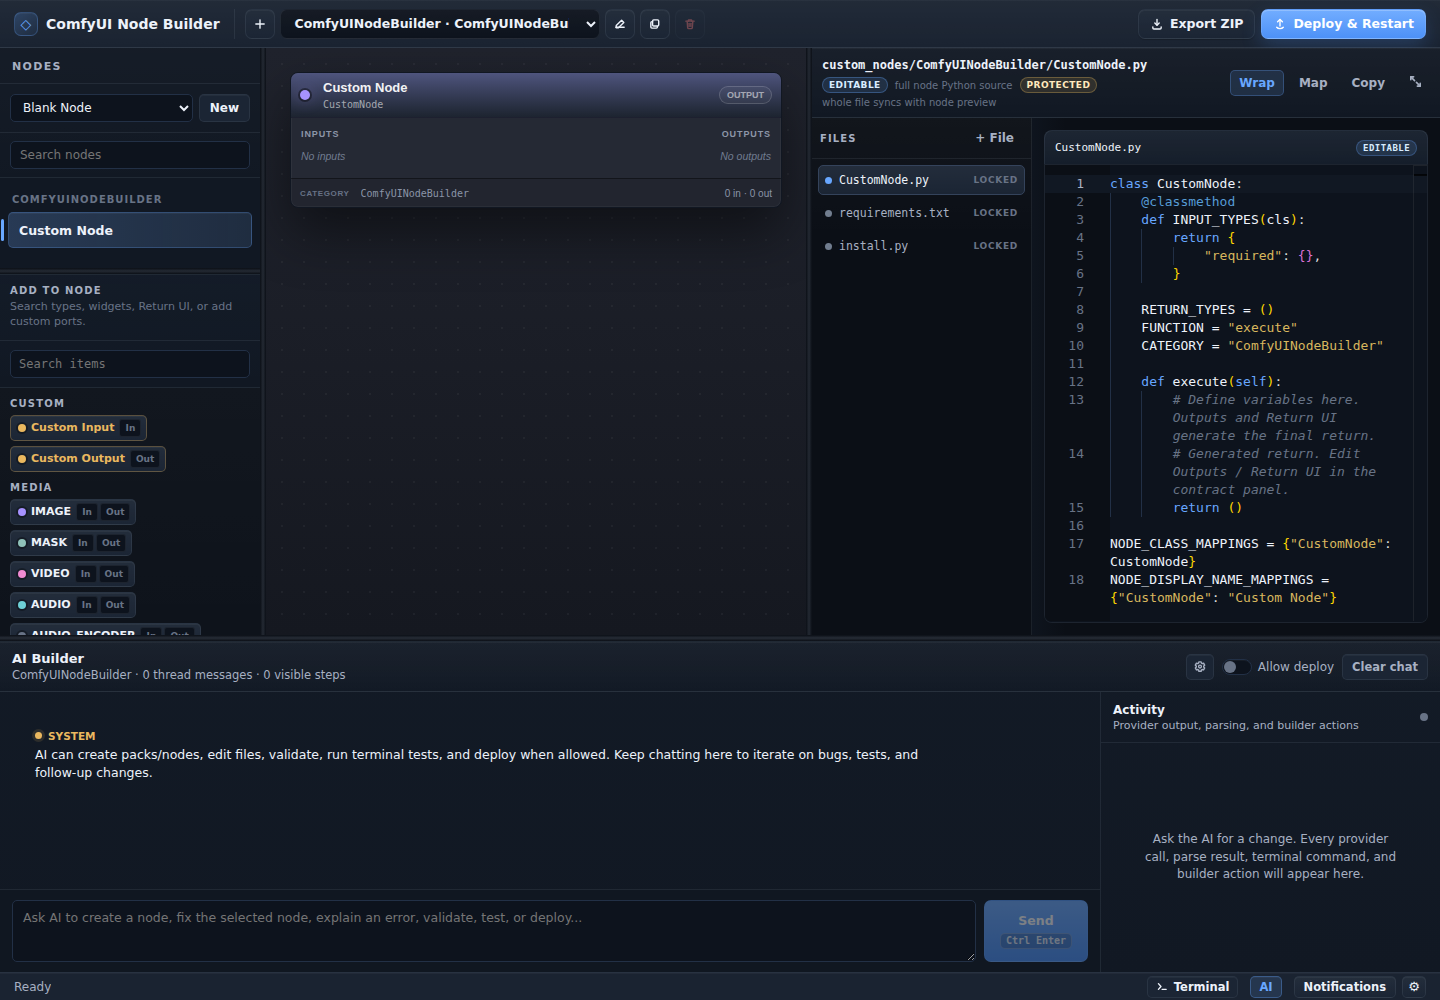
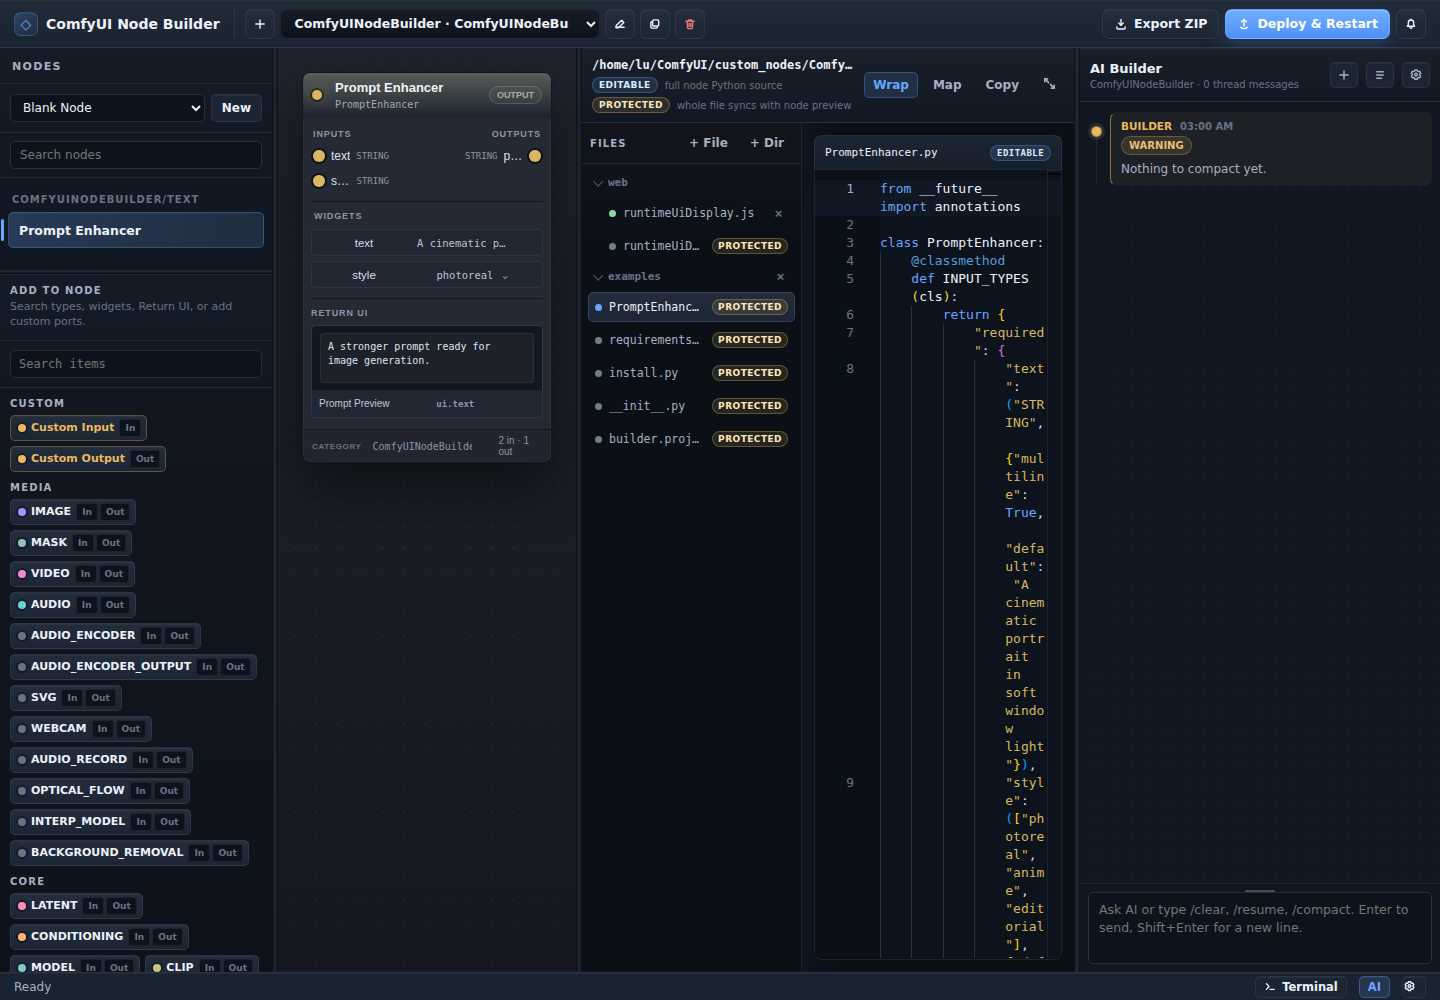
docs: refresh alpha landing screenshots
- update README and landing copy for Local Codex and nested pack deploys
- refresh current app screenshots for AI panel, settings, and synced file tree
- update landing metadata, llms.txt, and sitemap timestamp

diff --git a/site/index.html b/site/index.html
@@ -13,7 +13,7 @@
     <title>ComfyUI Node Builder · AI GUI for Custom Nodes</title>
     <meta
       name="description"
-      content="ComfyUI Node Builder is a local AI-powered GUI app for building, editing, validating, deploying, and testing custom ComfyUI nodes and full node packs."
+      content="ComfyUI Node Builder is a local AI-powered GUI app for building, editing, validating, deploying, and testing custom ComfyUI nodes and full node packs with Local Codex support."
     />
     <meta
       name="keywords"
@@ -25,7 +25,7 @@
     <meta property="og:title" content="ComfyUI Node Builder · AI GUI for Custom Nodes" />
     <meta
       property="og:description"
-      content="Build custom ComfyUI nodes and complex node packs with a visual GUI, direct Python editing, AI-assisted authoring, validation, deployment, and testing."
+      content="Build custom ComfyUI nodes and complex node packs with a visual GUI, direct Python editing, Local Codex AI assistance, validation, deployment, and testing."
     />
     <meta property="og:image" content="https://caoool.github.io/comfyui-node-canvas/ai-builder.png" />
     <meta property="og:image:alt" content="ComfyUI Node Builder AI panel creating and editing a custom node pack." />
@@ -37,7 +37,7 @@
     <meta name="twitter:title" content="ComfyUI Node Builder · AI GUI for Custom Nodes" />
     <meta
       name="twitter:description"
-      content="A local GUI app for building custom ComfyUI nodes and full node packs with AI doing the heavy lifting."
+      content="A local GUI app for building custom ComfyUI nodes and full node packs with Local Codex and AI doing the heavy lifting."
     />
     <meta name="twitter:image" content="https://caoool.github.io/comfyui-node-canvas/ai-builder.png" />
     <link rel="canonical" href="https://caoool.github.io/comfyui-node-canvas/" />
@@ -61,7 +61,7 @@
             "applicationCategory": "DeveloperApplication",
             "operatingSystem": "Windows, macOS, Linux",
             "programmingLanguage": ["TypeScript", "Vue", "Python"],
-            "description": "ComfyUI Node Builder is a local AI-powered GUI app for building, editing, validating, deploying, and testing custom ComfyUI nodes and full node packs.",
+            "description": "ComfyUI Node Builder is a local AI-powered GUI app for building, editing, validating, deploying, and testing custom ComfyUI nodes and full node packs with Local Codex support.",
             "keywords": "ComfyUI, custom nodes, ComfyUI node builder, AI node builder, GUI node editor, Python node pack",
             "image": "https://caoool.github.io/comfyui-node-canvas/ai-builder.png",
             "offers": {
@@ -108,7 +108,7 @@
                 "name": "What can the AI Builder do?",
                 "acceptedAnswer": {
                   "@type": "Answer",
-                  "text": "The AI Builder can create nodes from prompts, edit generated files, explain errors, validate packs, run terminal checks, and request deployment when the user enables deploy permission."
+                  "text": "The AI Builder can use local Codex, create nodes from prompts, edit generated files, explain errors, validate packs, run terminal checks, and request deployment when the user enables deploy permission."
                 }
               }
             ]
@@ -163,8 +163,8 @@
             <h1 data-en="Build powerful ComfyUI custom node packs with GUI and AI." data-zh="用 GUI 和 AI 构建强大的 ComfyUI 自定义节点包。">
               Build powerful ComfyUI custom node packs with GUI and AI.
             </h1>
-            <p class="hero-sub" data-en="ComfyUI Node Builder is a local GUI app for creating custom nodes and full node packs with ease. Design the node contract visually, edit Python directly, then use AI to create, revise, validate, test, and deploy more complicated packs." data-zh="ComfyUI Node Builder 是一个本地 GUI 应用，用来轻松创建自定义节点和完整节点包。你可以可视化设计节点接口、直接编辑 Python，再用 AI 创建、修改、验证、测试和部署更复杂的节点包。">
-              ComfyUI Node Builder is a local GUI app for creating custom nodes and full node packs with ease. Design the node contract visually, edit Python directly, then use AI to create, revise, validate, test, and deploy more complicated packs.
+            <p class="hero-sub" data-en="ComfyUI Node Builder is a local GUI app for creating custom nodes and full node packs with ease. Design the node contract visually, edit Python directly, then use Local Codex or another AI provider to create, revise, validate, test, and deploy more complicated packs." data-zh="ComfyUI Node Builder 是一个本地 GUI 应用，用来轻松创建自定义节点和完整节点包。你可以可视化设计节点接口、直接编辑 Python，再用本地 Codex 或其他 AI 提供商创建、修改、验证、测试和部署更复杂的节点包。">
+              ComfyUI Node Builder is a local GUI app for creating custom nodes and full node packs with ease. Design the node contract visually, edit Python directly, then use Local Codex or another AI provider to create, revise, validate, test, and deploy more complicated packs.
             </p>
             <div class="hero-cta">
               <a class="btn btn-primary" href="https://github.com/caoool/comfyui-node-canvas#quick-start">
@@ -179,14 +179,14 @@
             </div>
             <div class="mini-points" aria-label="Highlights">
               <span data-en="Visual node contract" data-zh="可视化节点接口">Visual node contract</span>
-              <span data-en="AI edits and tests" data-zh="AI 修改与测试">AI edits and tests</span>
-              <span data-en="Deploy to ComfyUI" data-zh="部署到 ComfyUI">Deploy to ComfyUI</span>
+              <span data-en="Local Codex support" data-zh="支持本地 Codex">Local Codex support</span>
+              <span data-en="Synced pack files" data-zh="同步节点包文件">Synced pack files</span>
             </div>
           </div>
 
           <figure class="hero-shot demo-shot">
             <div class="demo-frame">
-              <img src="demo-ai-node-workflow.gif" alt="Looping demo of AI creating, deploying, and testing a ComfyUI custom node from a user request." />
+              <img src="ai-builder.png" alt="Current ComfyUI Node Builder workbench with Local Codex AI panel, synced pack files, and generated Python." />
             </div>
             <div class="demo-overlay" aria-hidden="true">
               <div class="demo-progress-track">
@@ -218,8 +218,8 @@
                 </div>
               </div>
             </div>
-            <figcaption data-en="Short demo: user request in, AI-created node pack out, then deploy and test in ComfyUI." data-zh="简短演示：用户输入需求，AI 创建节点包，然后部署并在 ComfyUI 中测试。">
-              Short demo: user request in, AI-created node pack out, then deploy and test in ComfyUI.
+            <figcaption data-en="Current alpha workbench: node contract, synced pack files, generated Python, and AI side panel together." data-zh="当前 alpha 工作台：节点接口、同步节点包文件、生成的 Python 和 AI 侧边栏在同一个界面中。">
+              Current alpha workbench: node contract, synced pack files, generated Python, and AI side panel together.
             </figcaption>
           </figure>
         </div>
@@ -241,14 +241,14 @@
           </article>
           <article>
             <h3 data-en="Build with AI power" data-zh="用 AI 构建复杂能力">Build with AI power</h3>
-            <p data-en="Ask AI to create nodes, edit files, explain errors, validate generated packs, run terminal checks, and request deployment when allowed." data-zh="让 AI 创建节点、编辑文件、解释错误、验证生成的节点包、运行终端检查，并在允许后请求部署。">
-              Ask AI to create nodes, edit files, explain errors, validate generated packs, run terminal checks, and request deployment when allowed.
+            <p data-en="Use your installed Codex plan locally, or another provider, to create nodes, edit files, explain errors, validate generated packs, run terminal checks, and request deployment when allowed." data-zh="可以使用本机已安装的 Codex 计划，也可以使用其他提供商，让 AI 创建节点、编辑文件、解释错误、验证节点包、运行终端检查，并在允许后请求部署。">
+              Use your installed Codex plan locally, or another provider, to create nodes, edit files, explain errors, validate generated packs, run terminal checks, and request deployment when allowed.
             </p>
           </article>
           <article>
             <h3 data-en="Ship complicated packs" data-zh="交付复杂节点包">Ship complicated packs</h3>
-            <p data-en="Keep direct control of Python, requirements, install scripts, generated mappings, runtime UI, ZIP export, and managed ComfyUI deploy." data-zh="保留对 Python、requirements、安装脚本、映射文件、运行时 UI、ZIP 导出和 ComfyUI 托管部署的直接控制。">
-              Keep direct control of Python, requirements, install scripts, generated mappings, runtime UI, ZIP export, and managed ComfyUI deploy.
+            <p data-en="Keep direct control of Python, requirements, install scripts, generated mappings, runtime UI, ZIP export, and managed deploy into ComfyUINodeBuilder pack folders." data-zh="保留对 Python、requirements、安装脚本、映射文件、运行时 UI、ZIP 导出，以及 ComfyUINodeBuilder 节点包目录托管部署的直接控制。">
+              Keep direct control of Python, requirements, install scripts, generated mappings, runtime UI, ZIP export, and managed deploy into ComfyUINodeBuilder pack folders.
             </p>
           </article>
         </div>
@@ -264,8 +264,8 @@
         <div class="answer-grid">
           <article>
             <h3 data-en="What is it?" data-zh="这是什么？">What is it?</h3>
-            <p data-en="A local GUI app for building custom ComfyUI nodes and full node packs with AI-assisted authoring, editable Python, validation, deployment, and testing." data-zh="一个本地 GUI 应用，用 AI 辅助创建 ComfyUI 自定义节点和完整节点包，同时保留 Python 编辑、验证、部署和测试。">
-              A local GUI app for building custom ComfyUI nodes and full node packs with AI-assisted authoring, editable Python, validation, deployment, and testing.
+            <p data-en="A local GUI app for building custom ComfyUI nodes and full node packs with Local Codex or provider-backed AI, editable Python, validation, deployment, and testing." data-zh="一个本地 GUI 应用，可以用本地 Codex 或其他模型提供商辅助创建 ComfyUI 自定义节点和完整节点包，同时保留 Python 编辑、验证、部署和测试。">
+              A local GUI app for building custom ComfyUI nodes and full node packs with Local Codex or provider-backed AI, editable Python, validation, deployment, and testing.
             </p>
           </article>
           <article>
@@ -276,8 +276,8 @@
           </article>
           <article>
             <h3 data-en="Why use it?" data-zh="为什么用它？">Why use it?</h3>
-            <p data-en="It removes repetitive node-pack boilerplate while keeping the real files visible, editable, validated, and ready to deploy into ComfyUI." data-zh="它减少重复的节点包样板代码，同时让真实文件保持可见、可编辑、可验证，并可部署到 ComfyUI。">
-              It removes repetitive node-pack boilerplate while keeping the real files visible, editable, validated, and ready to deploy into ComfyUI.
+            <p data-en="It removes repetitive node-pack boilerplate while keeping the real files visible, editable, validated, and synced into ComfyUI's managed custom node folder." data-zh="它减少重复的节点包样板代码，同时让真实文件保持可见、可编辑、可验证，并同步到 ComfyUI 的托管自定义节点目录。">
+              It removes repetitive node-pack boilerplate while keeping the real files visible, editable, validated, and synced into ComfyUI's managed custom node folder.
             </p>
           </article>
         </div>
@@ -287,27 +287,27 @@
         <div class="section-head center">
           <div class="section-eyebrow" data-en="AI workflow" data-zh="AI 工作流">AI workflow</div>
           <h2 data-en="Screenshots from the actual app." data-zh="来自真实应用的截图。">Screenshots from the actual app.</h2>
-          <p data-en="The AI Builder sits inside the same workbench as your node preview, source files, and deploy controls." data-zh="AI Builder 位于同一个工作台中，和节点预览、源码文件、部署控制一起工作。">
-            The AI Builder sits inside the same workbench as your node preview, source files, and deploy controls.
+          <p data-en="The AI Builder sits inside the same workbench as your node preview, synced file tree, source files, and deploy controls." data-zh="AI Builder 位于同一个工作台中，和节点预览、同步文件树、源码文件、部署控制一起工作。">
+            The AI Builder sits inside the same workbench as your node preview, synced file tree, source files, and deploy controls.
           </p>
         </div>
         <div class="shot-grid">
           <figure class="shot-card shot-wide">
-            <img src="ai-builder.png" alt="AI Builder panel inside the ComfyUI Node Builder workbench." />
-            <figcaption data-en="Chat with AI while keeping the node contract and generated Python visible." data-zh="一边和 AI 对话，一边查看节点接口和生成的 Python。">
-              Chat with AI while keeping the node contract and generated Python visible.
+            <img src="ai-builder.png" alt="AI Builder panel with Local Codex, synced file tree, protected files, and generated Python visible." />
+            <figcaption data-en="Chat with AI while the node contract, synced file tree, protected files, and generated Python stay visible." data-zh="一边和 AI 对话，一边查看节点接口、同步文件树、受保护文件和生成的 Python。">
+              Chat with AI while the node contract, synced file tree, protected files, and generated Python stay visible.
             </figcaption>
           </figure>
           <figure class="shot-card">
-            <img src="ai-settings.png" alt="AI settings with provider, model, skills, API key, and deploy gate." />
-            <figcaption data-en="Choose provider, model, skills, and gated deploy permissions." data-zh="选择提供商、模型、AI 技能，并控制部署权限。">
-              Choose provider, model, skills, and gated deploy permissions.
+            <img src="ai-settings.png" alt="AI settings showing Local Codex availability, model selection, reasoning effort, skills, and deploy gate." />
+            <figcaption data-en="Use local Codex, select model and reasoning effort, choose skills, and gate deploy permissions." data-zh="使用本地 Codex，选择模型和推理强度、AI 技能，并控制部署权限。">
+              Use local Codex, select model and reasoning effort, choose skills, and gate deploy permissions.
             </figcaption>
           </figure>
           <figure class="shot-card">
-            <img src="polished-populated.png" alt="ComfyUI Node Builder visual node contract and generated Python." />
-            <figcaption data-en="Visual contracts stay synced with editable generated pack files." data-zh="可视化节点接口会和可编辑的生成文件保持同步。">
-              Visual contracts stay synced with editable generated pack files.
+            <img src="polished-populated.png" alt="ComfyUI Node Builder visual node contract, nested pack file tree, and generated Python." />
+            <figcaption data-en="Visual contracts stay synced with editable nested pack files under ComfyUINodeBuilder." data-zh="可视化节点接口会和 ComfyUINodeBuilder 下的嵌套节点包文件保持同步。">
+              Visual contracts stay synced with editable nested pack files under ComfyUINodeBuilder.
             </figcaption>
           </figure>
         </div>

diff --git a/README.md b/README.md
@@ -25,6 +25,8 @@ Build powerful ComfyUI custom node packs with a visual GUI and AI.
 
 ![Animated progress panel: prompt to ComfyUI node, handled by AI](demo-ai-node-steps.svg)
 
+![Current AI Builder workbench with Local Codex, synced file tree, and protected managed pack files](ai-builder.png)
+
 **Demo:** a user asks for a simple LLM prompt-enhancer node; AI creates the node contract and code, updates dependencies, deploys the pack, and the node is tested in ComfyUI.
 
 **演示：** 用户提出一个简单的 LLM 提示词增强节点需求；AI 创建节点接口和代码、更新依赖、部署节点包，并在 ComfyUI 中测试节点。
@@ -95,18 +97,18 @@ It can help you:
 - validate the generated pack
 - run terminal checks in the pack workspace
 - request deployment when **Allow deploy** is enabled
-- use provider-backed models from OpenAI, OpenRouter, OpenAI-compatible servers, Anthropic, Gemini, or Ollama
+- use your local Codex plan through the installed `codex` CLI, or provider-backed models from OpenAI, OpenRouter, OpenAI-compatible servers, Anthropic, Gemini, or Ollama
 
 Deployment is gated. The assistant can ask for a deploy action, but the UI only emits deploy when you explicitly allow it.
 
-![AI settings and gated deploy controls](ai-settings.png)
+![Local Codex settings, model selection, reasoning effort, skills, and gated deploy controls](ai-settings.png)
 
 ### What The GUI Gives You
 
 - **Visual node contract:** add inputs, outputs, widgets, custom types, Return UI, categories, and metadata.
 - **Full Python editing:** edit generated node Python directly in a Monaco-powered workspace.
 - **Generated pack files:** inspect node files, `__init__.py`, runtime UI scripts, custom renderers, requirements, install scripts, and shared files.
-- **Managed deployment:** export ZIPs or write builder-managed packs into `<ComfyUI>/custom_nodes/<pack-folder>/`.
+- **Managed deployment:** export ZIPs or write builder-managed packs into `<ComfyUI>/custom_nodes/ComfyUINodeBuilder/<pack-folder>/`.
 - **Round-trip metadata:** keep `builder.project.json` so builder-owned packs can be loaded back into the app.
 - **Local helper server:** file system writes, AI provider calls, terminal commands, dependency install, and ComfyUI restart requests stay on loopback.
 
@@ -136,7 +138,7 @@ Open the Vite URL, then open **Settings** from the status bar and configure:
 
 - **ComfyUI URL:** usually `http://127.0.0.1:8188`
 - **ComfyUI Install Path:** the folder that contains ComfyUI's `custom_nodes` directory
-- **Pack Name / Pack Slug:** the local project name and category slug. The slug defaults to `ComfyUINodeBuilder/` so you can append your own category path. Deploy always mirrors the active pack into `custom_nodes/ComfyUINodeBuilder`.
+- **Pack Name / Pack Slug:** the local project name and category slug. The slug defaults to `ComfyUINodeBuilder/` so you can append your own pack folder, for example `ComfyUINodeBuilder/PromptTools`. Deploy mirrors the active pack into `custom_nodes/ComfyUINodeBuilder/<pack-folder>`.
 
 ### Basic Workflow
 
@@ -236,7 +238,7 @@ AI Builder 直接内置在工作台里，不是一个独立的聊天页面。
 - 验证生成的节点包
 - 在节点包工作目录中运行终端检查
 - 在开启 **Allow deploy** 后请求部署
-- 使用 OpenAI、OpenRouter、OpenAI-compatible、Anthropic、Gemini 或 Ollama 等模型提供商
+- 通过已安装的 `codex` CLI 使用本地 Codex 计划，或使用 OpenAI、OpenRouter、OpenAI-compatible、Anthropic、Gemini、Ollama 等模型提供商
 
 部署是有门禁的。AI 可以请求部署动作，但只有你明确开启允许部署后，界面才会发出部署操作。
 
@@ -245,7 +247,7 @@ AI Builder 直接内置在工作台里，不是一个独立的聊天页面。
 - **可视化节点接口：** 添加输入、输出、控件、自定义类型、Return UI、分类和元数据。
 - **完整 Python 编辑：** 在 Monaco 工作区中直接编辑生成的节点 Python。
 - **生成节点包文件：** 检查节点文件、`__init__.py`、运行时 UI 脚本、自定义渲染器、requirements、安装脚本和共享文件。
-- **托管部署：** 导出 ZIP，或把 builder 管理的节点包写入 `<ComfyUI>/custom_nodes/<pack-folder>/`。
+- **托管部署：** 导出 ZIP，或把 builder 管理的节点包写入 `<ComfyUI>/custom_nodes/ComfyUINodeBuilder/<pack-folder>/`。
 - **可回载元数据：** 通过 `builder.project.json` 让 builder 创建的节点包可以再次加载回应用。
 - **本地 helper server：** 文件写入、AI 调用、终端命令、依赖安装和 ComfyUI 重启请求都走 loopback。
 
@@ -275,7 +277,7 @@ npm run dev
 
 - **ComfyUI URL：** 通常是 `http://127.0.0.1:8188`
 - **ComfyUI Install Path：** 包含 ComfyUI `custom_nodes` 目录的文件夹
-- **Pack Name / Pack Slug：** 本地项目名和分类标识。Slug 默认是 `ComfyUINodeBuilder/`，可以在后面追加自己的分类路径。部署始终同步到 `custom_nodes/ComfyUINodeBuilder`。
+- **Pack Name / Pack Slug：** 本地项目名和分类标识。Slug 默认是 `ComfyUINodeBuilder/`，可以在后面追加自己的节点包目录，例如 `ComfyUINodeBuilder/PromptTools`。部署会同步到 `custom_nodes/ComfyUINodeBuilder/<pack-folder>`。
 
 ### 基本流程
 